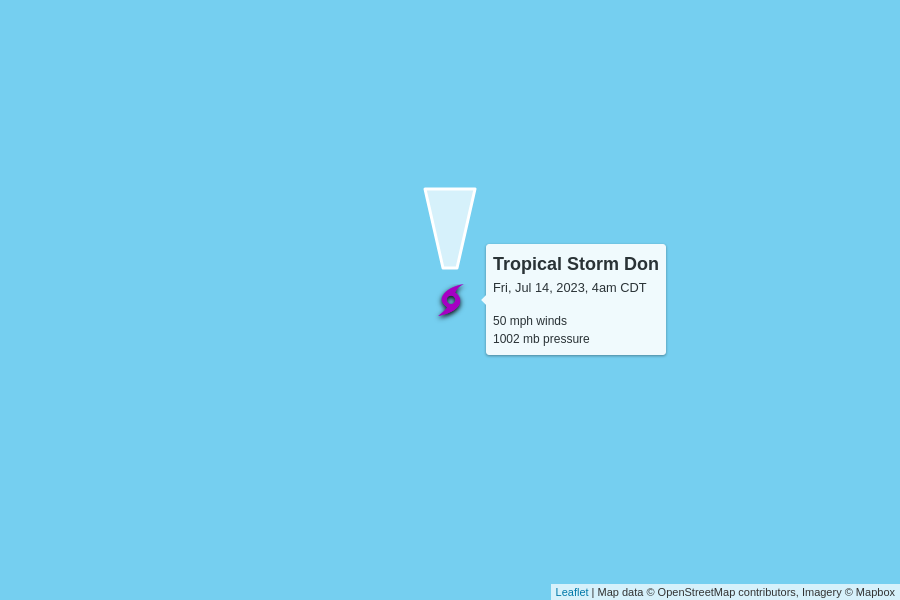
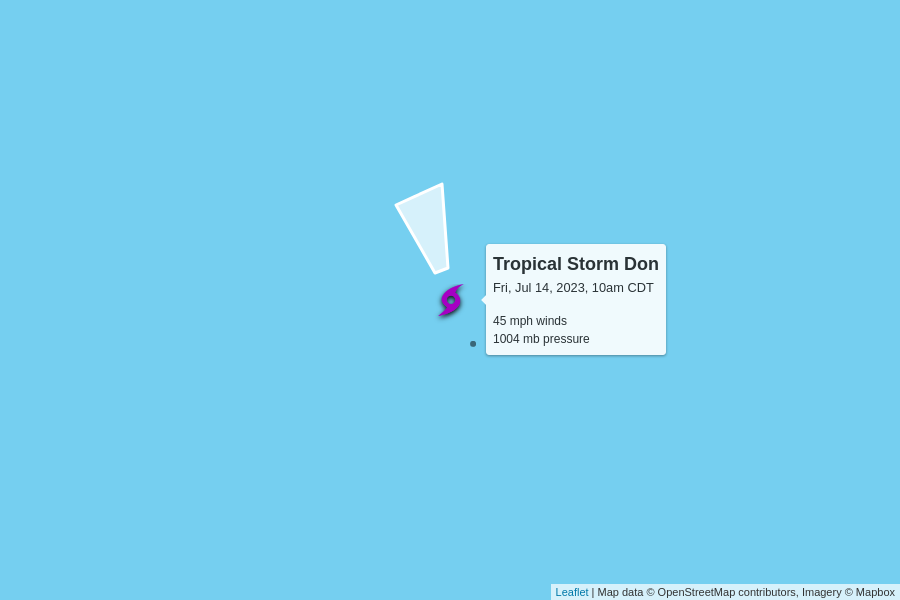
automatic update

Changed region(s): [[0.4356, 0.3, 0.5289, 0.45], [0.6533, 0.45, 0.7156, 0.51], [0.5289, 0.51, 0.56, 0.54]]

diff --git a/docs/index.html b/docs/index.html
@@ -100,7 +100,7 @@
         <td colspan="6" class="storm category-0" >
           <h2>
             Tropical Storm Don
-            <p class="updated">last updated <span data-time>2023-07-14T09:00:00.000Z</span></p>
+            <p class="updated">last updated <span data-time>2023-07-14T15:00:00.000Z</span></p>
           </h2>
         </td>
       </tr>
@@ -115,12 +115,12 @@
       </tr>
       <tr>
         <td class="spacer"></td>
-        <td>50 mph</td>
-        <td>1002 mb</td>
+        <td>45 mph</td>
+        <td>1004 mb</td>
         <td>
-          6 mph to the north
+          7 mph to the north-northwest
           <br/>
-          <span style="display: inline-block; font-size: 1.5em; transform: rotate(360deg);">↑</span>
+          <span style="display: inline-block; font-size: 1.5em; transform: rotate(340deg);">↑</span>
         </td>
         <td><a href="https://raw.githubusercontent.com/mgwalker/atlantic-hurricanes/main/data/csv/AL052023.csv">AL052023.csv</a></td>
         <td><a href="https://www.nhc.noaa.gov/archive/2023/DON.shtml?">NHC advisories</a></td>
